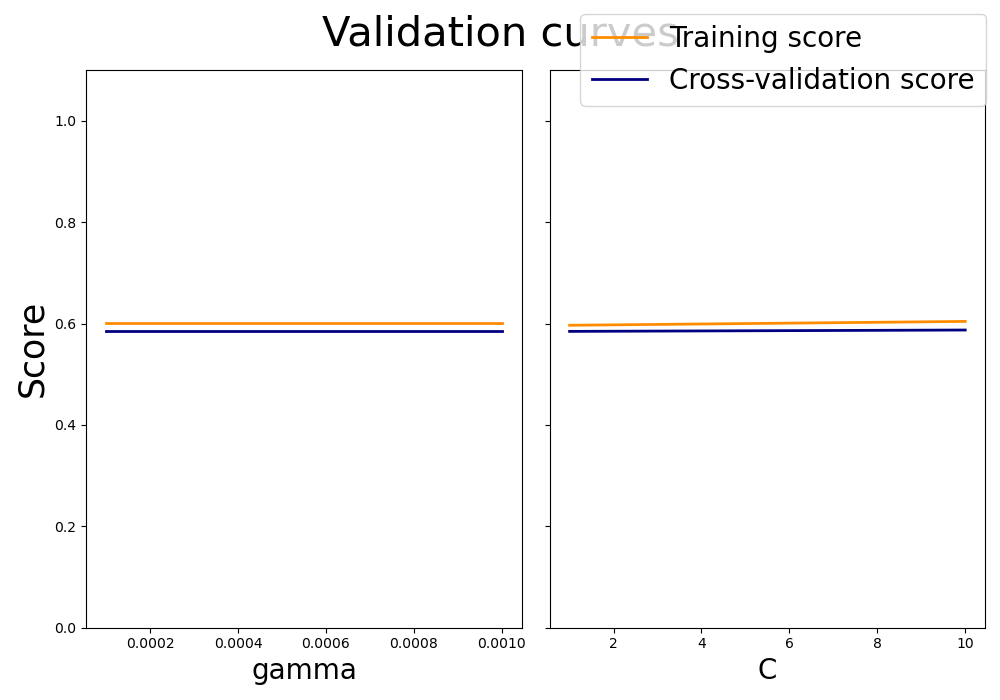
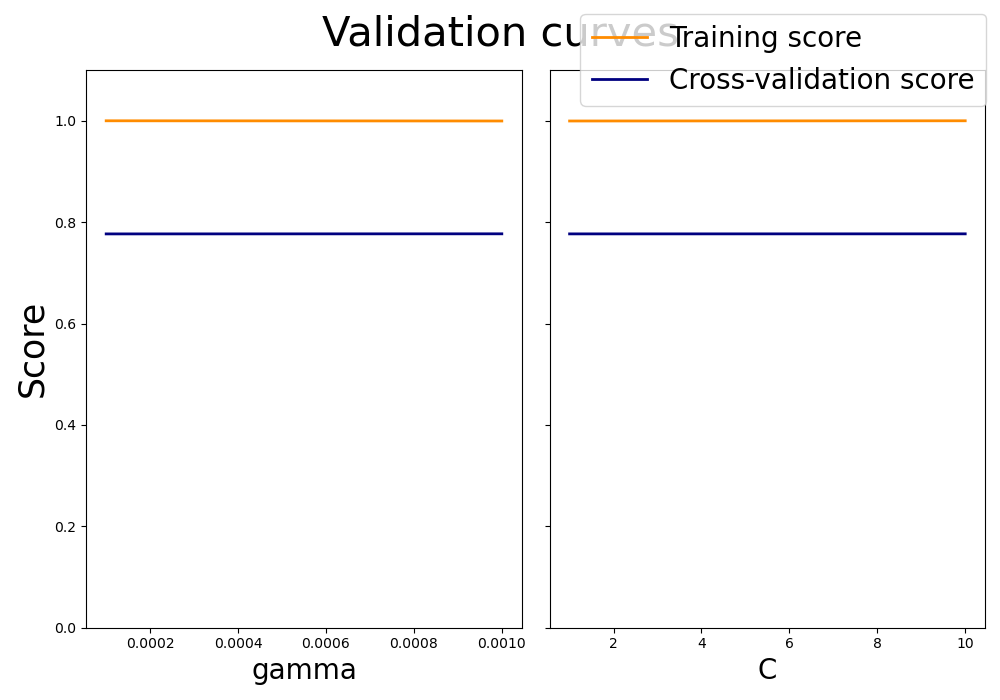
Updated code

diff --git a/SupervisedLearning/SupportVectorMachines.py b/SupervisedLearning/SupportVectorMachines.py
@@ -1,7 +1,7 @@
 from sklearn.svm import SVC, LinearSVC
 import pandas as pd
 from sklearn.model_selection import train_test_split
-from sklearn.preprocessing import LabelEncoder
+from sklearn.preprocessing import LabelEncoder, StandardScaler
 
 from Utility import extractData, plotPerformance, plotValidationCurve, plotLearningCurve, getBestModel
 
@@ -23,9 +23,7 @@ class SupportVectorMachine:
 
         #
         train_x, test_x, train_y,test_y = train_test_split(X,Y, test_size=0.3, random_state=123)
-        parameter_grid = { 'gamma': [1e-3, 1e-4],
-                           'C': [1, 10] }
-        svc = SVC(random_state=0, kernel=kernel)
+        svc, parameter_grid = self.getSVCForKernel(kernel)
         classifier, grid_search = getBestModel(svc, parameter_grid, train_x, train_y)
         plotValidationCurve("SVC(kernel="+kernel+")", label, grid_search, train_x, train_y, parameter_grid)
         plotLearningCurve("SVC(kernel="+kernel+")", label, classifier, X, Y)
@@ -37,11 +35,18 @@ class SupportVectorMachine:
 
         plotPerformance(test_y, pred_y, label, 'Algorithm: Support Vector Machines(kernel={})'.format(kernel))
 
+   def getSVCForKernel(self, kernel):
+       if kernel == 'linear':
+           parameter_grid = {},
+           return LinearSVC(random_state=0), parameter_grid
+       parameter_grid = {'gamma': [1e-3, 1e-4]}
+       return SVC(kernel=kernel, random_state=0), parameter_grid
+
 def main():
     svcClassify = SupportVectorMachine()
-    print('------- SVM - Classification for : WineQuality-Red -------')
-    svcClassify.classify("winequality-red.csv", encode=False, kernel='rbf', label='Wine Quality')
-    svcClassify.classify("winequality-red.csv", encode=False, kernel='linear', label='Wine Quality')
+    # print('------- SVM - Classification for : WineQuality-Red -------')
+    # svcClassify.classify("winequality-red.csv", encode=False, kernel='rbf', label='Wine Quality')
+    # svcClassify.classify("winequality-red.csv", encode=False, kernel='linear', label='Wine Quality')
     print('------- SVM - Classification for : CC Default -------')
     svcClassify.classify("default_of_credit_card_clients.csv", encode=False, kernel='rbf',
                          label='Creditcard Default')

diff --git a/SupervisedLearning/Utility.py b/SupervisedLearning/Utility.py
@@ -54,17 +54,20 @@ def plotLearningCurve(estimator, data,  model,   X, Y):
     plt.show()
 
 def plotValidationCurve(estimator, data,  grid_search,   X, Y, param_grid):
-    # train_scores, test_scores = validation_curve(model, X, Y, param_name=param_name, param_range=param_values, cv=10)
-    # train_scores_mean = np.mean(train_scores,1)
-    # test_scores_mean = np.mean(test_scores, 1)
     df = pd.DataFrame(grid_search.cv_results_)
     results = ['mean_test_score',
                'mean_train_score',
                'std_test_score',
                'std_train_score']
-    fig, axes = plt.subplots(1, len(param_grid),
+    fig, ax = plt.subplots(1, len(param_grid),
                              figsize=(5 * len(param_grid), 7),
                              sharey='row')
+    axes = []
+    if len(param_grid) == 1:
+        axes.append(ax)
+    else:
+        axes = ax
+
     axes[0].set_ylabel("Score", fontsize=25)
     for idx, (param_name, param_range) in enumerate(param_grid.items()):
         grouped_df = df.groupby(f'param_{param_name}')[results] \
@@ -107,8 +110,7 @@ def plotValidationCurve(estimator, data,  grid_search,   X, Y, param_grid):
     # plt.show()
 
 def getBestModel(classifyAlgorithm, parameter_grid, train_x, train_y):
-       cross_validation = StratifiedKFold(random_state=112, shuffle=True)
-       grid_search = GridSearchCV(classifyAlgorithm, param_grid=parameter_grid, cv=cross_validation, return_train_score=True)
+       grid_search = GridSearchCV(classifyAlgorithm, param_grid=parameter_grid, cv=5, return_train_score=True, n_jobs=-1,  verbose=5)
        grid_search.fit(train_x, train_y)
        print('Best params : {}'.format(grid_search.best_params_))
        classifier = grid_search.best_estimator_
